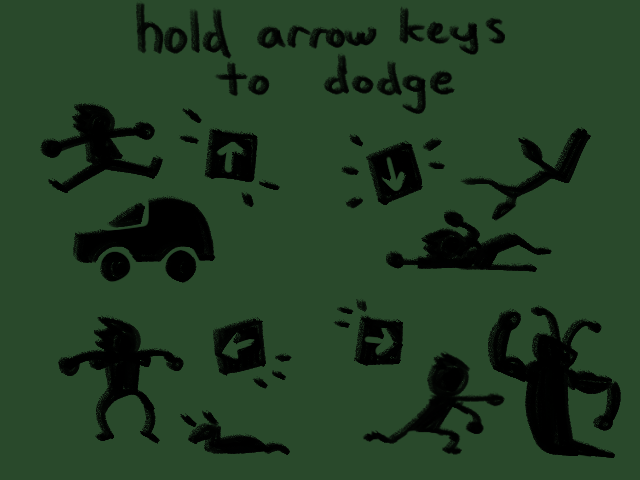
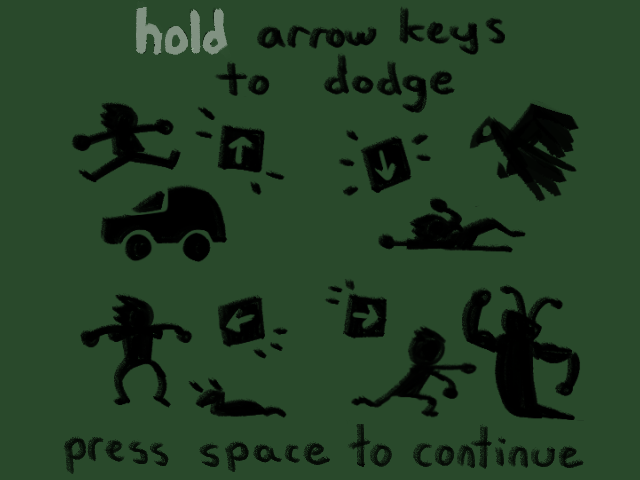
game over screen added

diff --git a/src/scenes/Play.js b/src/scenes/Play.js
@@ -12,19 +12,17 @@ class Play extends Phaser.Scene {
       this.load.spritesheet('MirekJump', './assets/MirekJumpingSpritesheet.png', {frameWidth: 123, frameHeight: 164, startFrame: 0, endFrame: 6});
       // this.load.image('mirekDucking', './assets/mirekDucking.png');
       this.load.spritesheet('MirekDuck', './assets/MirekDuckSpritesheet.png', {frameWidth: 123, frameHeight: 164, startFrame: 0, endFrame: 3});
-      this.load.image('mirekPunching', './assets/mirekPunching.png');
-      // this.load.spritesheet('MirekPunch', './assets/MirekPunchSpritesheet.png', {frameWidth: 123, frameHeight: 164, startFrame: 0, endFrame: TBD});
-      this.load.image('mirekDodging', './assets/mirekDodging.png');
-      // this.load.spritesheet('MirekDodge', './assets/MirekDodgeSpritesheet.png', {frameWidth: 123, frameHeight: 164, startFrame: 0, endFrame: TBD});
+      //this.load.image('mirekPunching', './assets/mirekPunching.png');
+      this.load.spritesheet('MirekPunch', './assets/MirekPunchSpritesheet.png', {frameWidth: 123, frameHeight: 164, startFrame: 0, endFrame: 3});
+      //this.load.image('mirekDodging', './assets/mirekDodging.png');
+      this.load.spritesheet('MirekDodge', './assets/MirekDodgeSpritesheet.png', {frameWidth: 123, frameHeight: 164, startFrame: 0, endFrame: 3});
 
-      // this.load.image('gameOver', './assets/gameoverscreen.png');
+      this.load.image('gameOver', './assets/gameover.png');
 
       this.load.image('car', './assets/car.png');
       this.load.image('branch', './assets/branch.png');
       this.load.image('sammy', './assets/sammy.png');
       this.load.image('slug', './assets/slug.png')
-
-
 
     }
     
@@ -37,7 +35,7 @@ class Play extends Phaser.Scene {
 
       this.anims.create({
         key: 'MirekJump',
-        frames: this.anims.generateFrameNumbers('MirekJump', {start: 0, end: 3, first: 0}), frameRate: 3
+        frames: this.anims.generateFrameNumbers('MirekJump', {start: 0, end: 3, first: 0}), frameRate: 12
       });
 
       this.anims.create({
@@ -45,17 +43,16 @@ class Play extends Phaser.Scene {
         frames: this.anims.generateFrameNumbers('MirekDuck', {start: 0, end: 3, first: 0}), frameRate: 6
       });
       
-      /*
       this.anims.create({
         key: 'MirekPunch',
-        frames: this.anims.generateFrameNumbers('MirekPunch', {start: 0, end: TBD, first: 0}), frameRate: TBD
+        frames: this.anims.generateFrameNumbers('MirekPunch', {start: 0, end: 3, first: 0}), frameRate: 6
       });
 
       this.anims.create({
         key: 'MirekDodge',
-        frames: this.anims.generateFrameNumbers('MirekDodge', {start: 0, end: TBD, first: 0}), frameRate: TBD
+        frames: this.anims.generateFrameNumbers('MirekDodge', {start: 0, end: 3, first: 0}), frameRate: 6
       });
-      */
+    
 
       //define keys
       this.keySPACE = this.input.keyboard.addKey(Phaser.Input.Keyboard.KeyCodes.SPACE);
@@ -73,17 +70,7 @@ class Play extends Phaser.Scene {
       this.backgroundsprite = this.add.tileSprite(0, 0, gamewidth, gameheight, 'backTrees').setOrigin(0, 0);
       this.foregroundtile = this.add.tileSprite(0, 0, gamewidth, gameheight, 'frontTrees').setOrigin(0, 0);
 
-      // this.gameOverscreen = this.add.tileSprite(0, 0, gamewidth, gameheight, 'gameOver').setOrigin(0, 0);
-      // this.gameOverscreen.alpha = 0;
-      // this.gameoverDisplayed = false;
-
       this.displayscore = this.add.text(16, 16, 'score: ', { fontSize: '32px', fill: '#000' });
-      
-      //place mirek running anim; place everything else set alpha to 1
-      /*this.Mirek = new Mirek(this, game.config.width/5.5, game.config.height/1.5 - borderUISize - borderPadding, 'mirek', keyLEFT,
-          keyRIGHT, keyUP, keyDOWN).setOrigin(0.5, 0);
-      console.log("mirek placed"); 
-      commented out because I think we can make the game work without a Mirek Class*/
       
       this.Mirek = this.add.sprite(game.config.width/5.5, game.config.height/1.6 - borderUISize - borderPadding,'MirekRun').setOrigin(0.5, 0);
 
@@ -112,6 +99,11 @@ class Play extends Phaser.Scene {
 
       this.slug= new Obstacles(this, game.config.width, game.config.height/1.2  - borderUISize - borderPadding, 'slug', 0, 'Slug').setOrigin(0,0);
       console.log("slug PLACED");
+
+      //game over screen
+      this.gameOverscreen = this.add.tileSprite(0, 0, gamewidth, gameheight, 'gameOver').setOrigin(0, 0);
+      this.gameOverscreen.alpha = 0;
+      this.gameoverDisplayed = false;
 
       //define vars
       this.isJumping= false;
@@ -168,17 +160,16 @@ class Play extends Phaser.Scene {
       this.sammy.update();
       this.slug.update();
 
-      /*
       if(this.gameOver && this.gameoverDisplayed && Phaser.Input.Keyboard.JustDown(this.keySPACE)) {
         this.scene.start('menuScene')
       }
-
-      */
 
       if(!this.gameOver) {
         this.Mirek.anims.play('MirekRun', 1, true);
         this.MirekJumping.anims.play('MirekJump', 1, true);
         this.MirekDucking.anims.play('MirekDuck', 1, true);
+        this.MirekPunching.anims.play('MirekPunch', 1, true);
+        this.MirekDodging.anims.play('MirekDodge', 1, true);
         this.countdown -= 250;
       }
 
@@ -194,7 +185,6 @@ class Play extends Phaser.Scene {
       if(Phaser.Input.Keyboard.JustDown(this.keyUP) && !Phaser.Input.Keyboard.JustDown(this.keyRIGHT) && !Phaser.Input.Keyboard.JustDown(this.keyLEFT) && !Phaser.Input.Keyboard.JustDown(this.keyDOWN)){
         this.Mirek.alpha= 0;
         this.MirekJumping.alpha=1;
-        //this.MirekJumping.anims.play('MirekJump', 1, true);
         this.MirekDucking.alpha= 0;
         this.MirekPunching.alpha=0;
         this.MirekDodging.alpha=0;
@@ -369,9 +359,9 @@ class Play extends Phaser.Scene {
       console.log("game over, switching back to menu");
       this.carSpawnEvent.remove();
       this.speedUp.remove();
-      this.scene.start('menuScene');
-      // this.speed = 0;
-      // this.gameOverscreen.alpha = 1;
-      // this.gameoverDisplayed = true;
+      // this.scene.start('menuScene');
+      this.speed = 0;
+      this.gameOverscreen.alpha = 1;
+      this.gameoverDisplayed = true;
     }
   }
